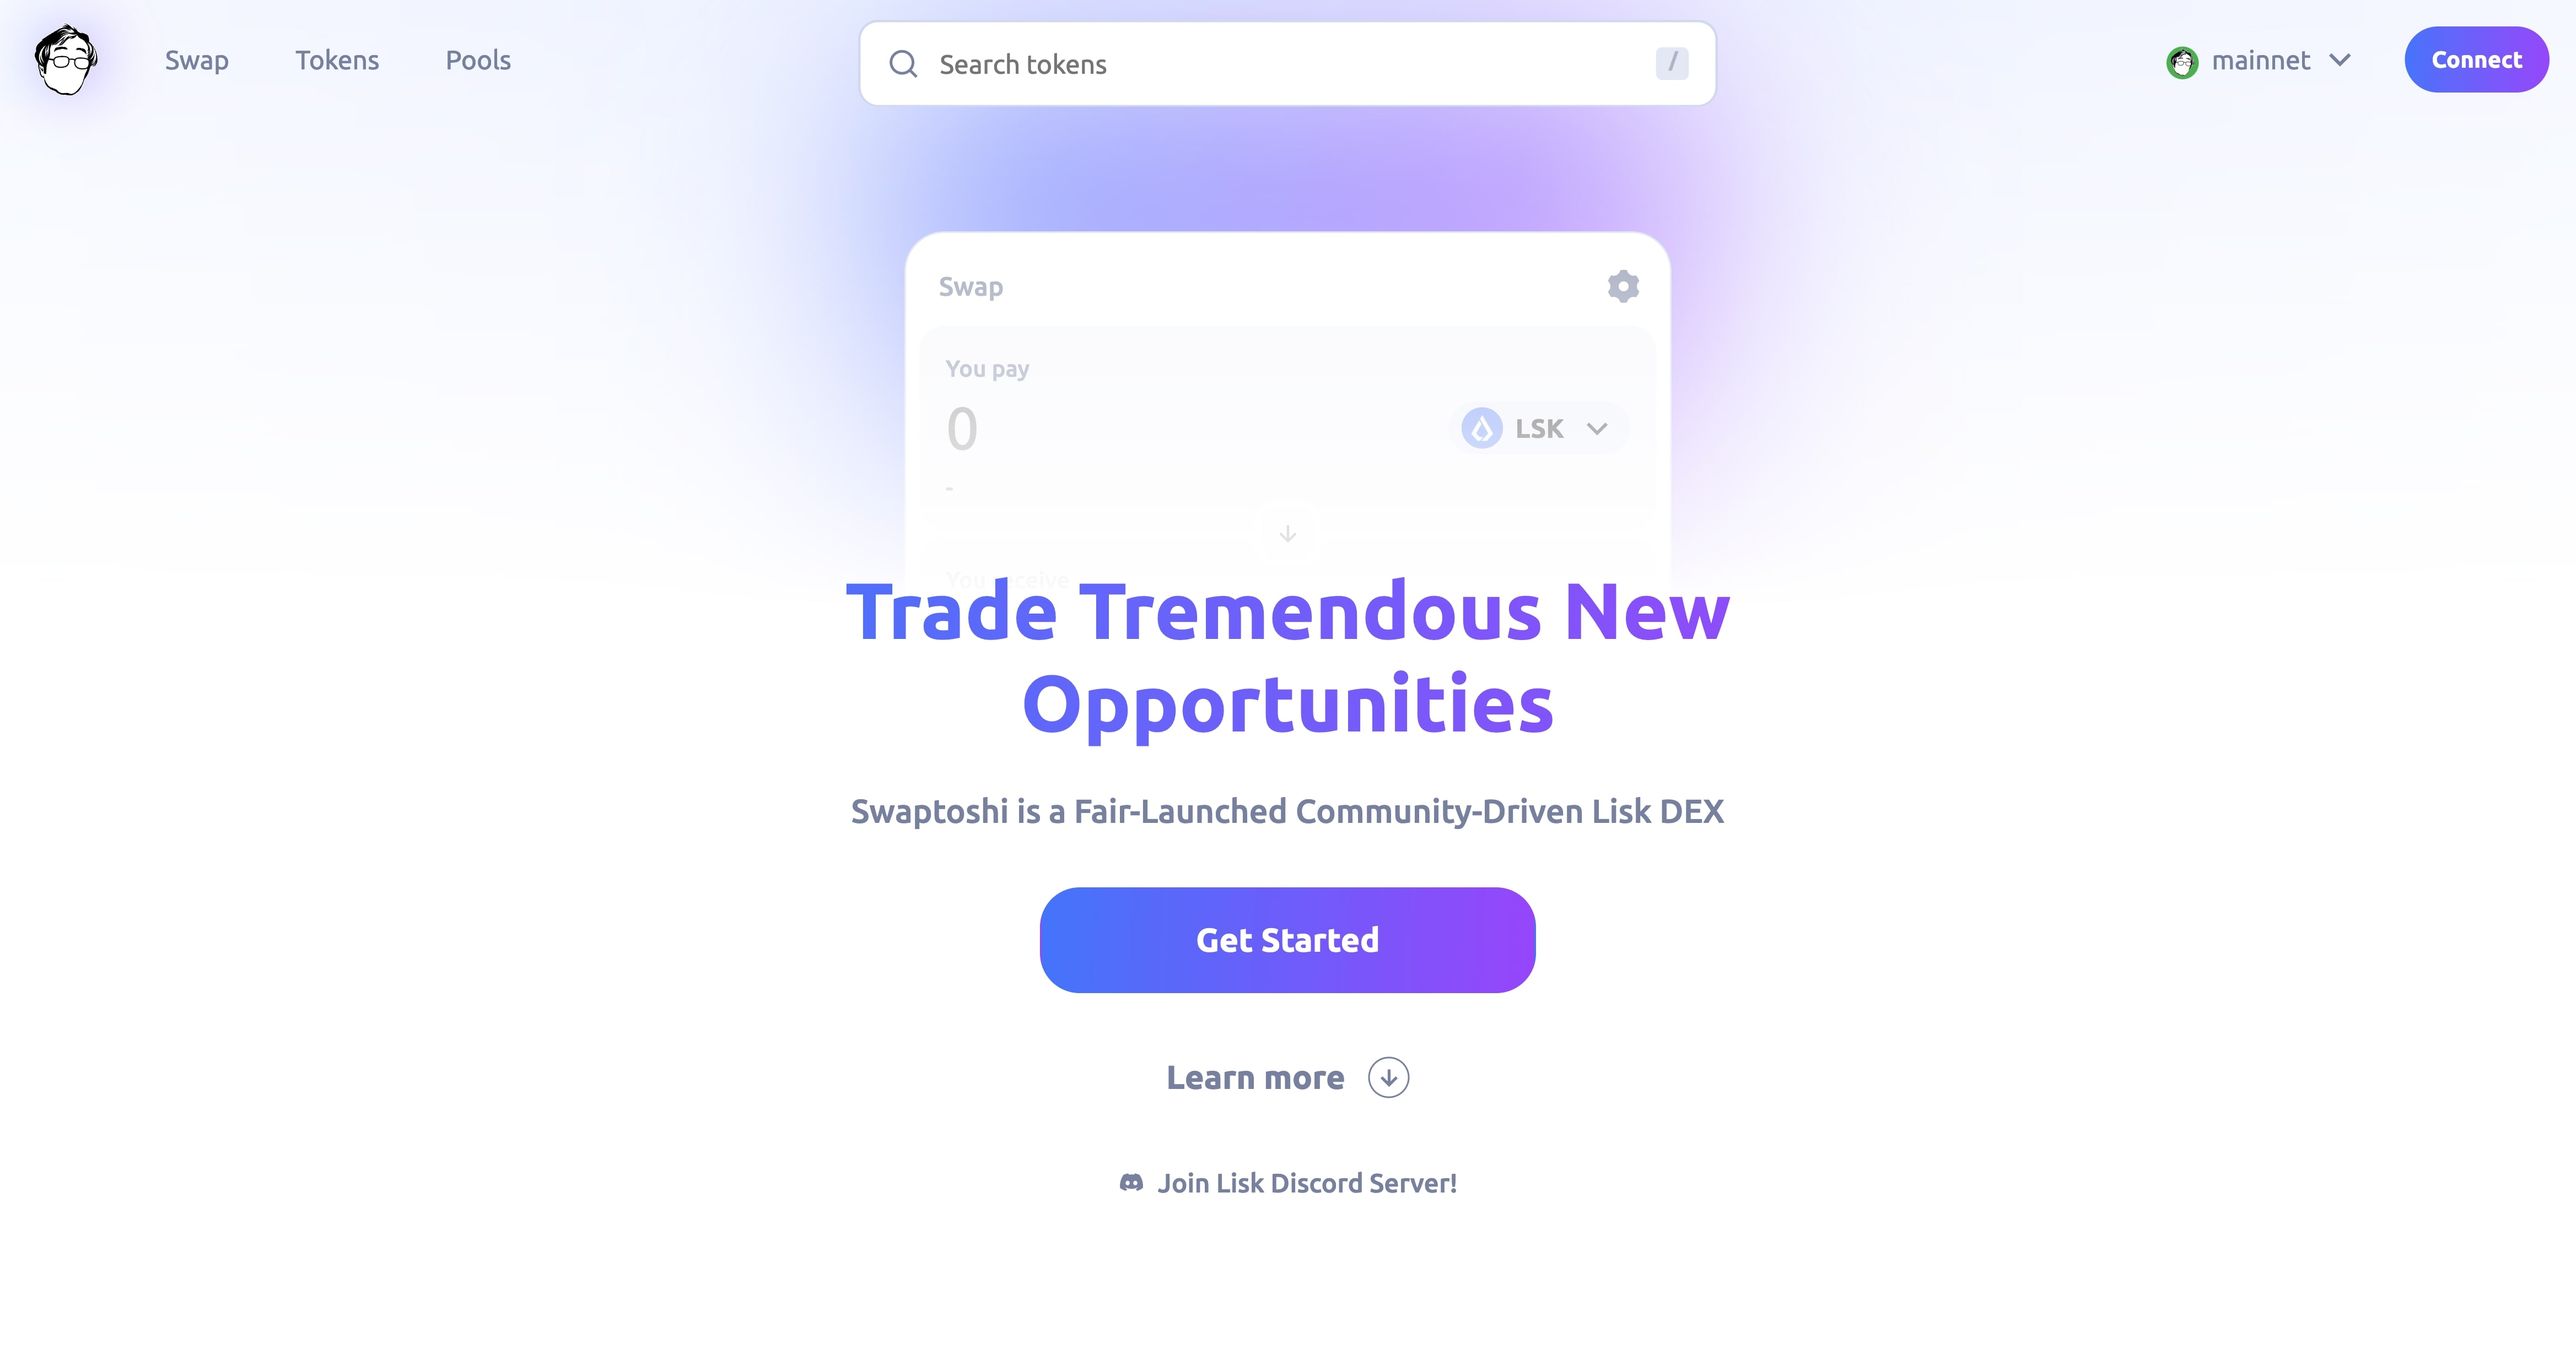
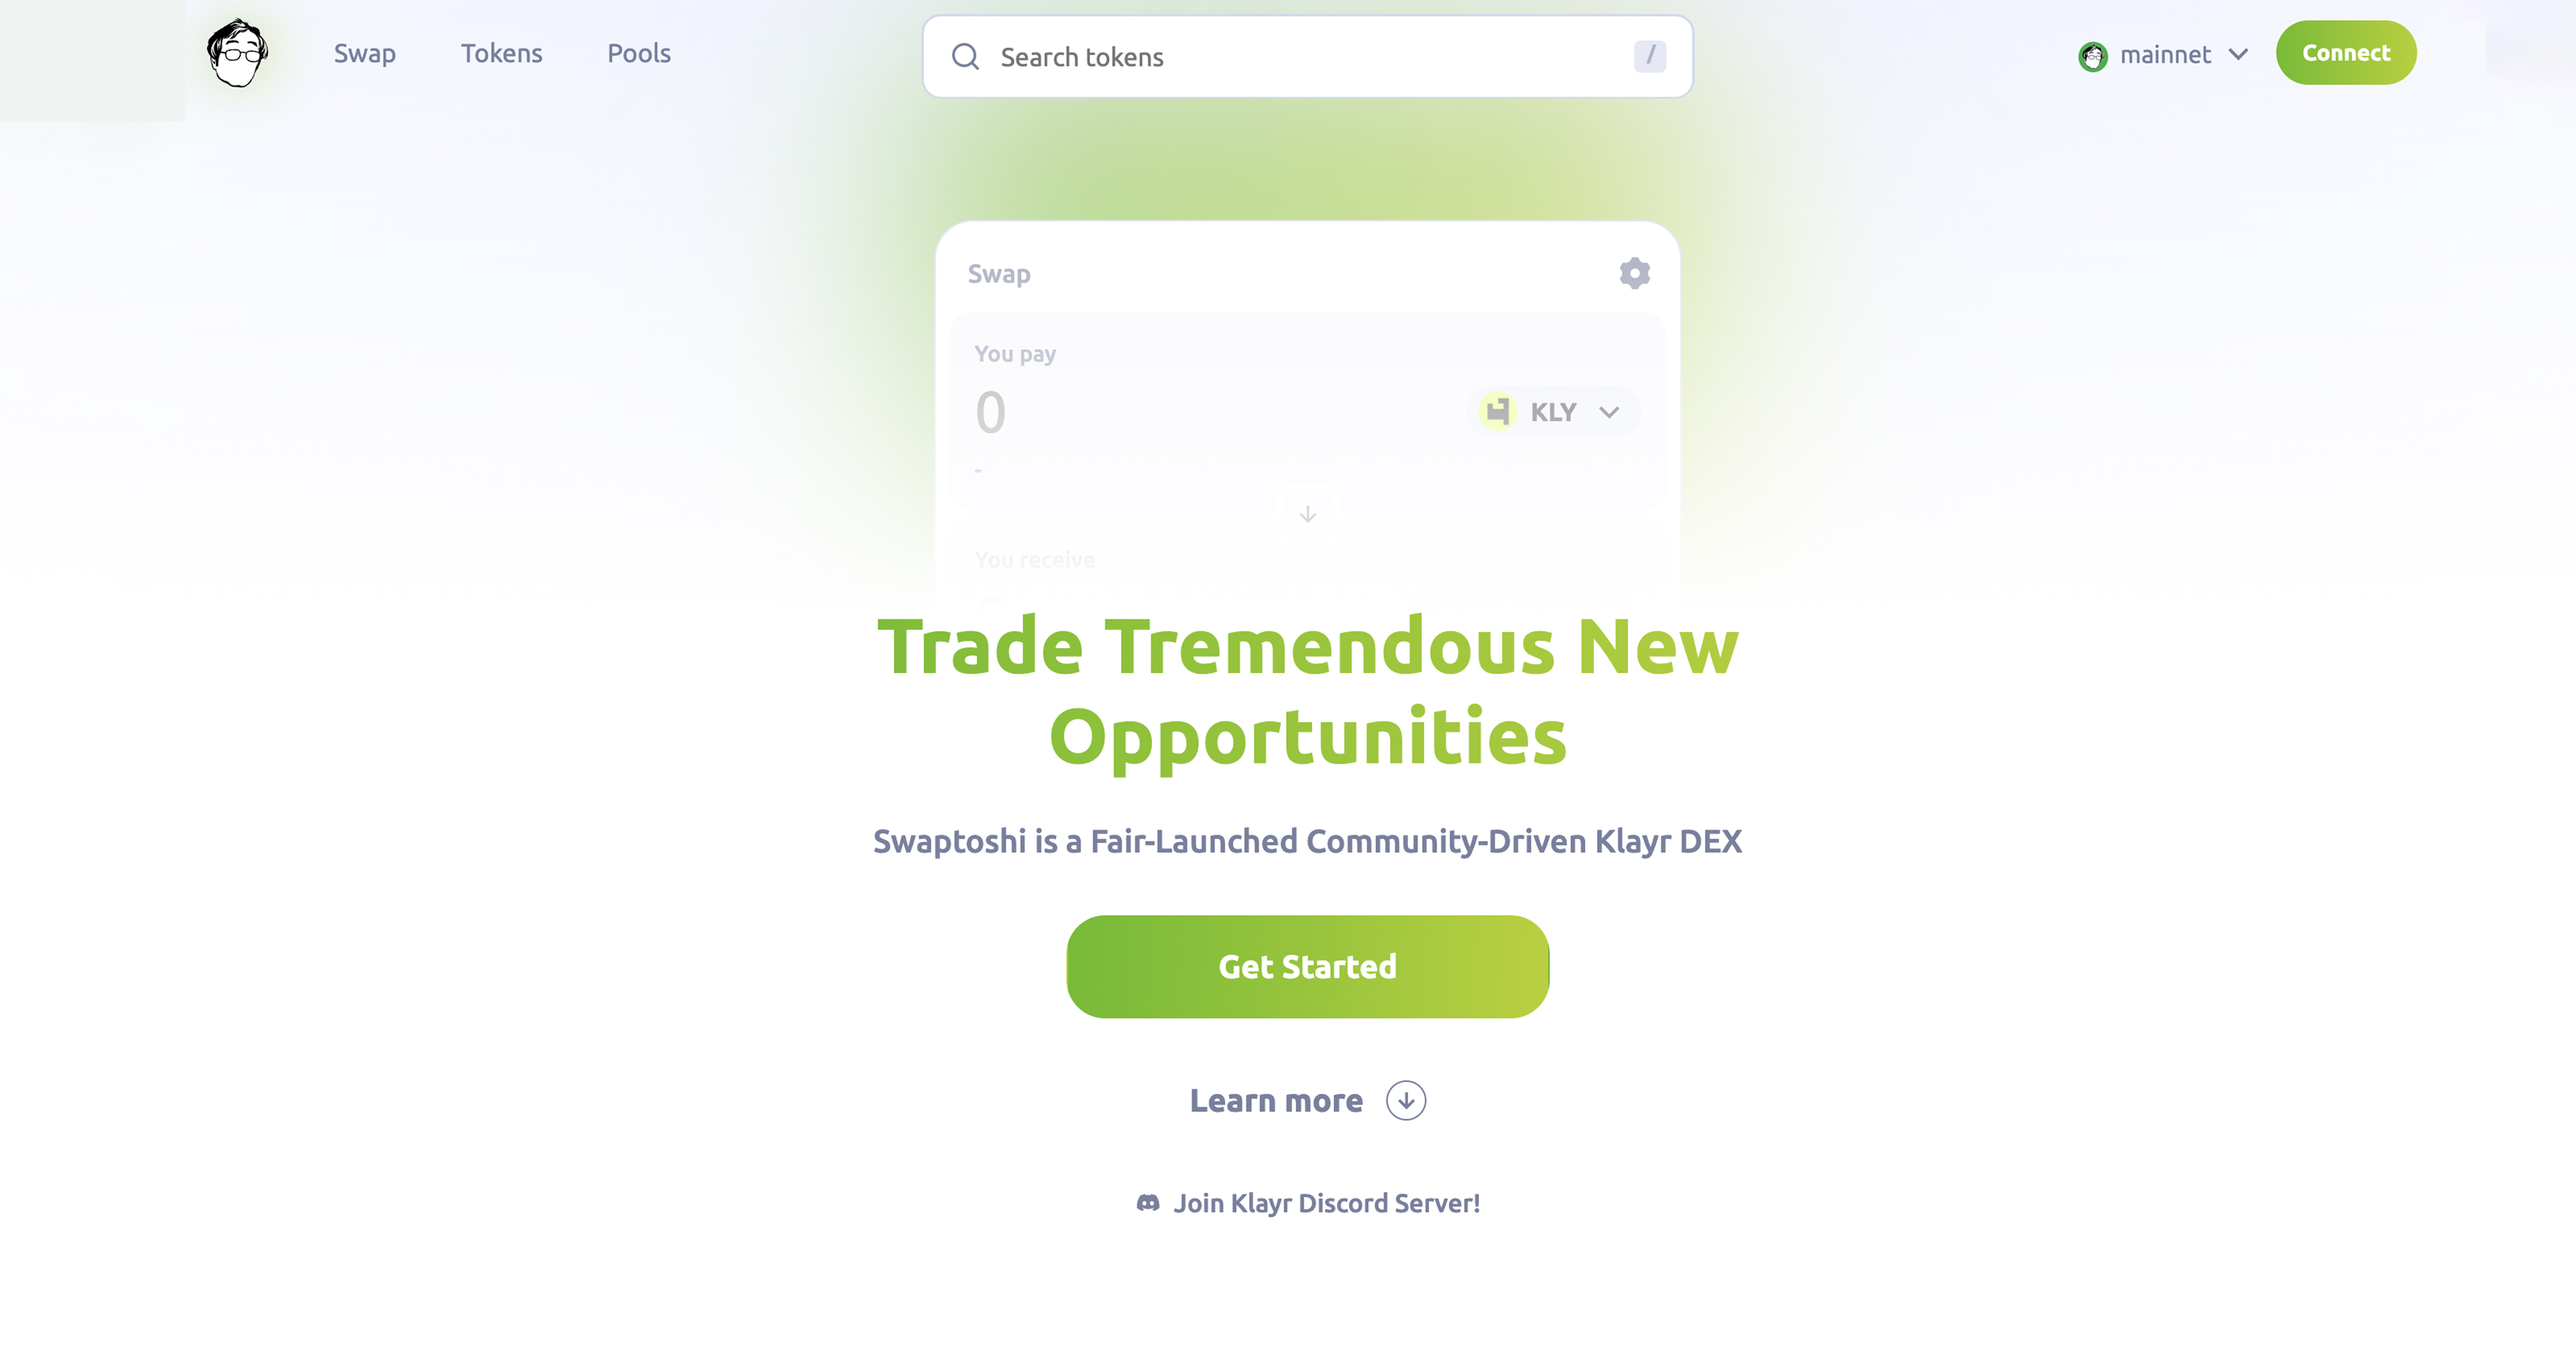
update social card

diff --git a/public/index.html b/public/index.html
@@ -5,11 +5,14 @@
 		<meta name="viewport" content="width=device-width, initial-scale=1" />
 		<meta name="description" content="Fair-launched Community-driven Klayr DEX" />
 
-		<meta property="og:URL" content="%PUBLIC_URL%/assets/images/thumbnail.jpg" />
+		<meta property="og:URL" content="https://app.swaptoshi.com" />
 		<meta property="og:type" content="article" />
 		<meta property="og:title" content="Swaptoshi App" />
 		<meta property="og:description" content="Fair-launched Community-driven Klayr DEX" />
 		<meta property="og:image" content="%PUBLIC_URL%/assets/images/thumbnail.jpg" />
+
+		<meta name="twitter:image" content="%PUBLIC_URL%/assets/images/thumbnail.jpg" />
+		<meta name="twitter:card" content="summary_large_image" />
 
 		<link
 			rel="apple-touch-icon"
